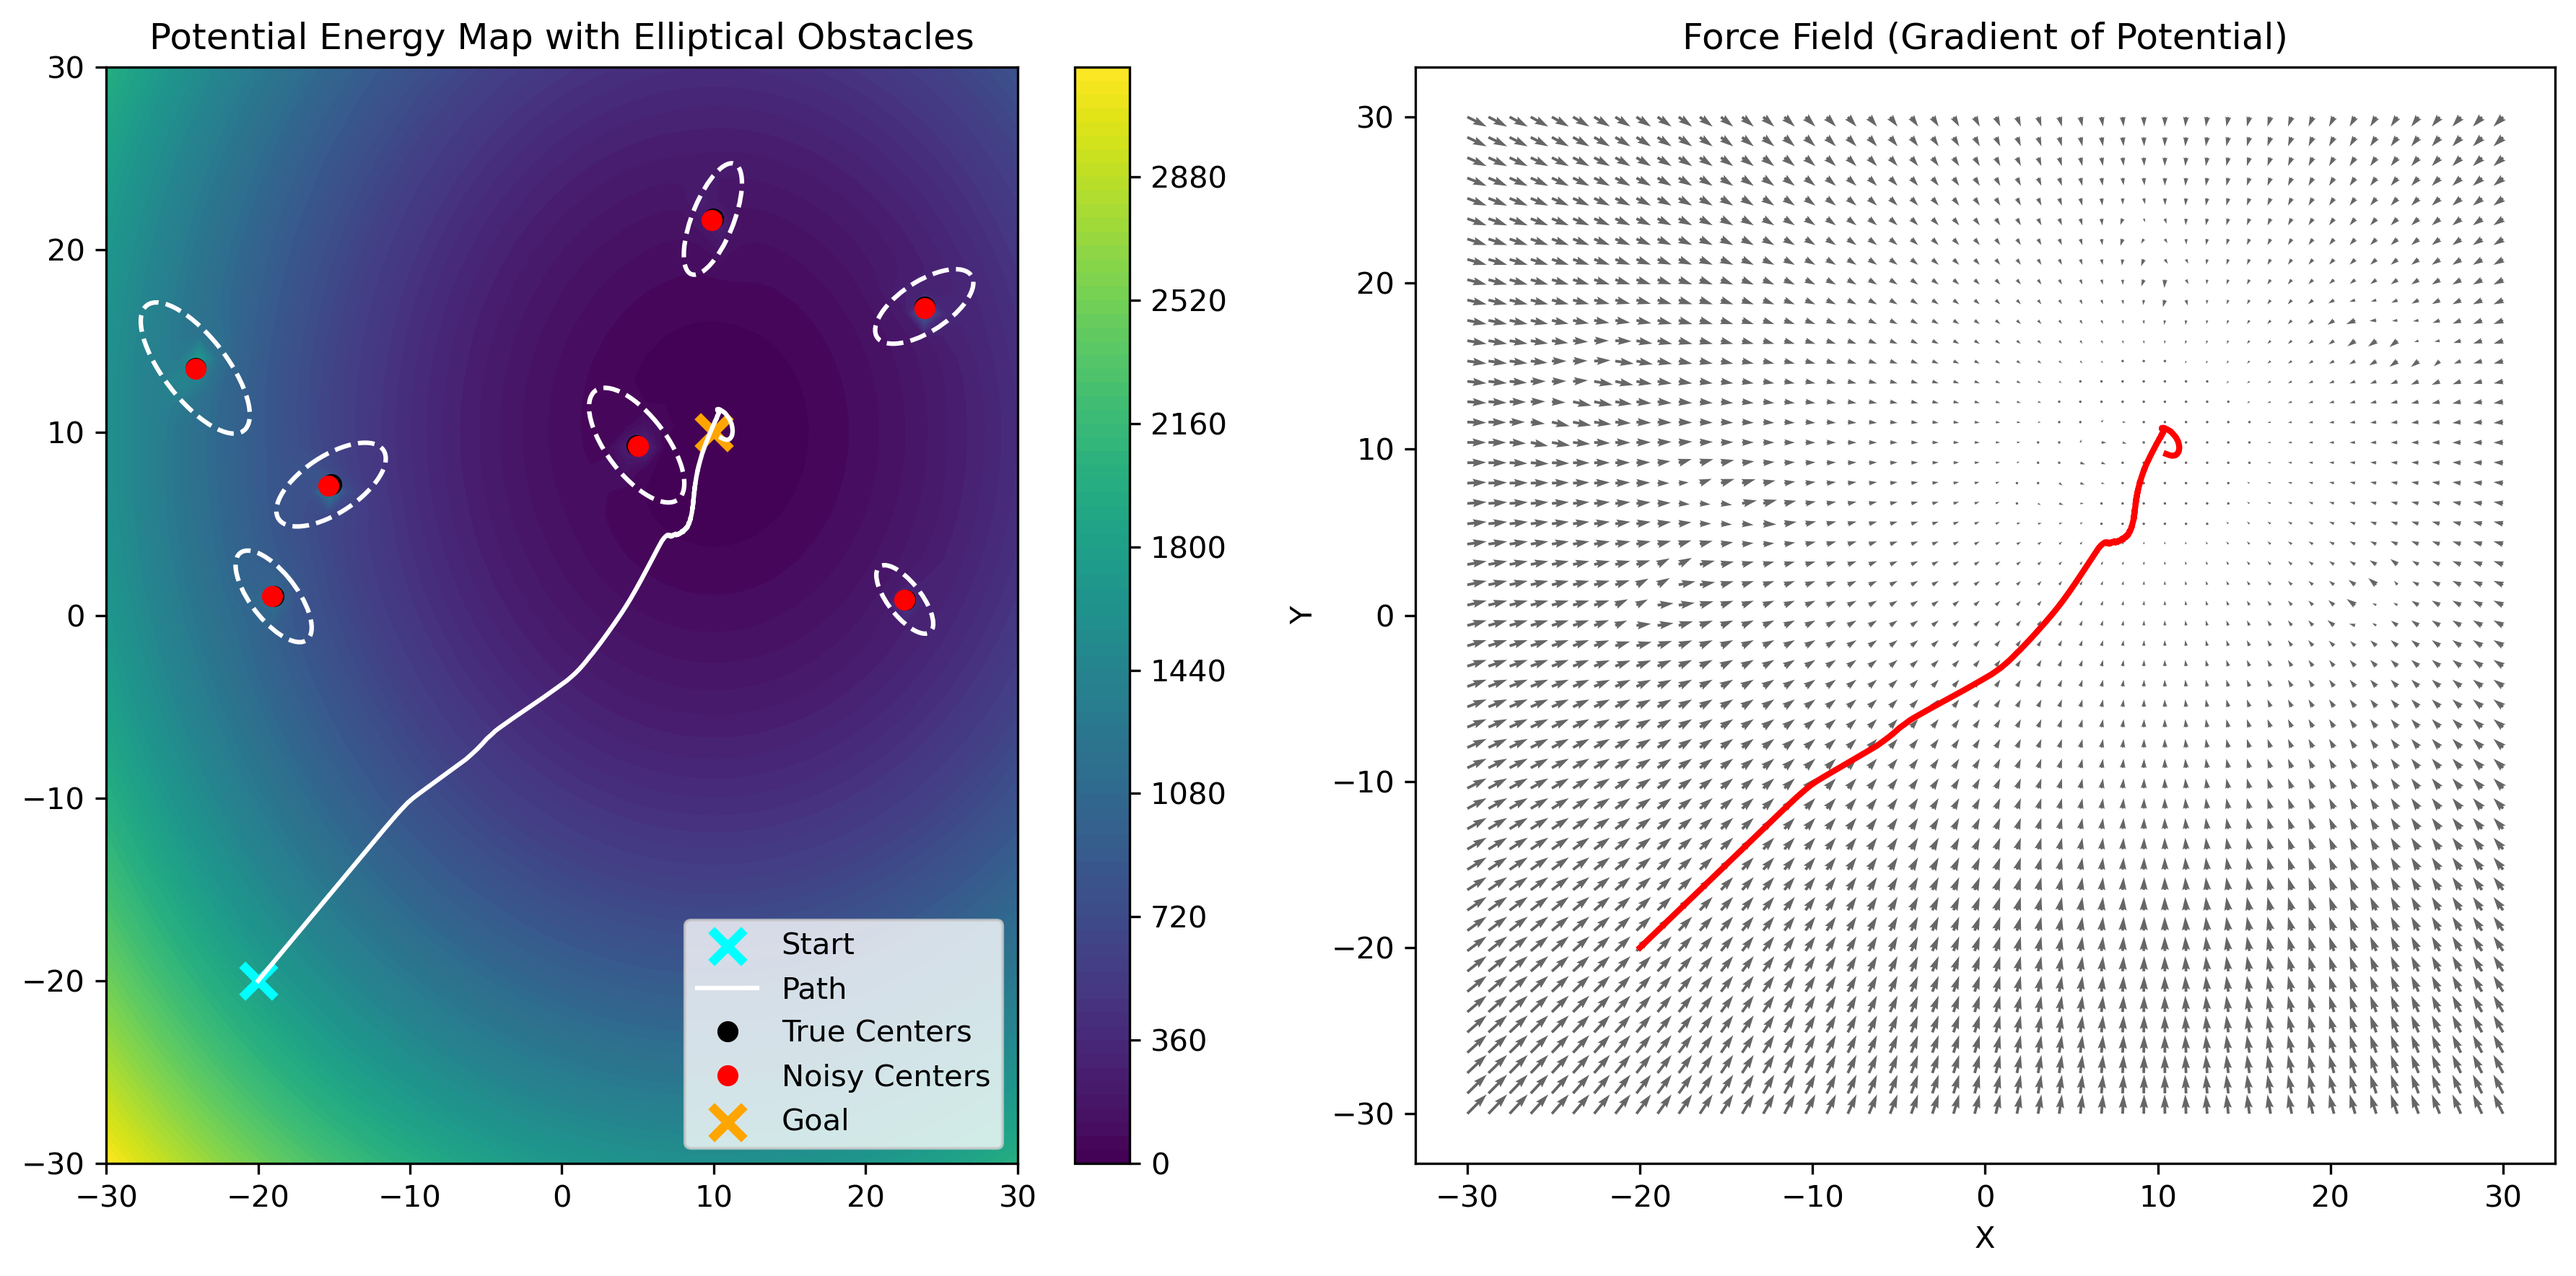
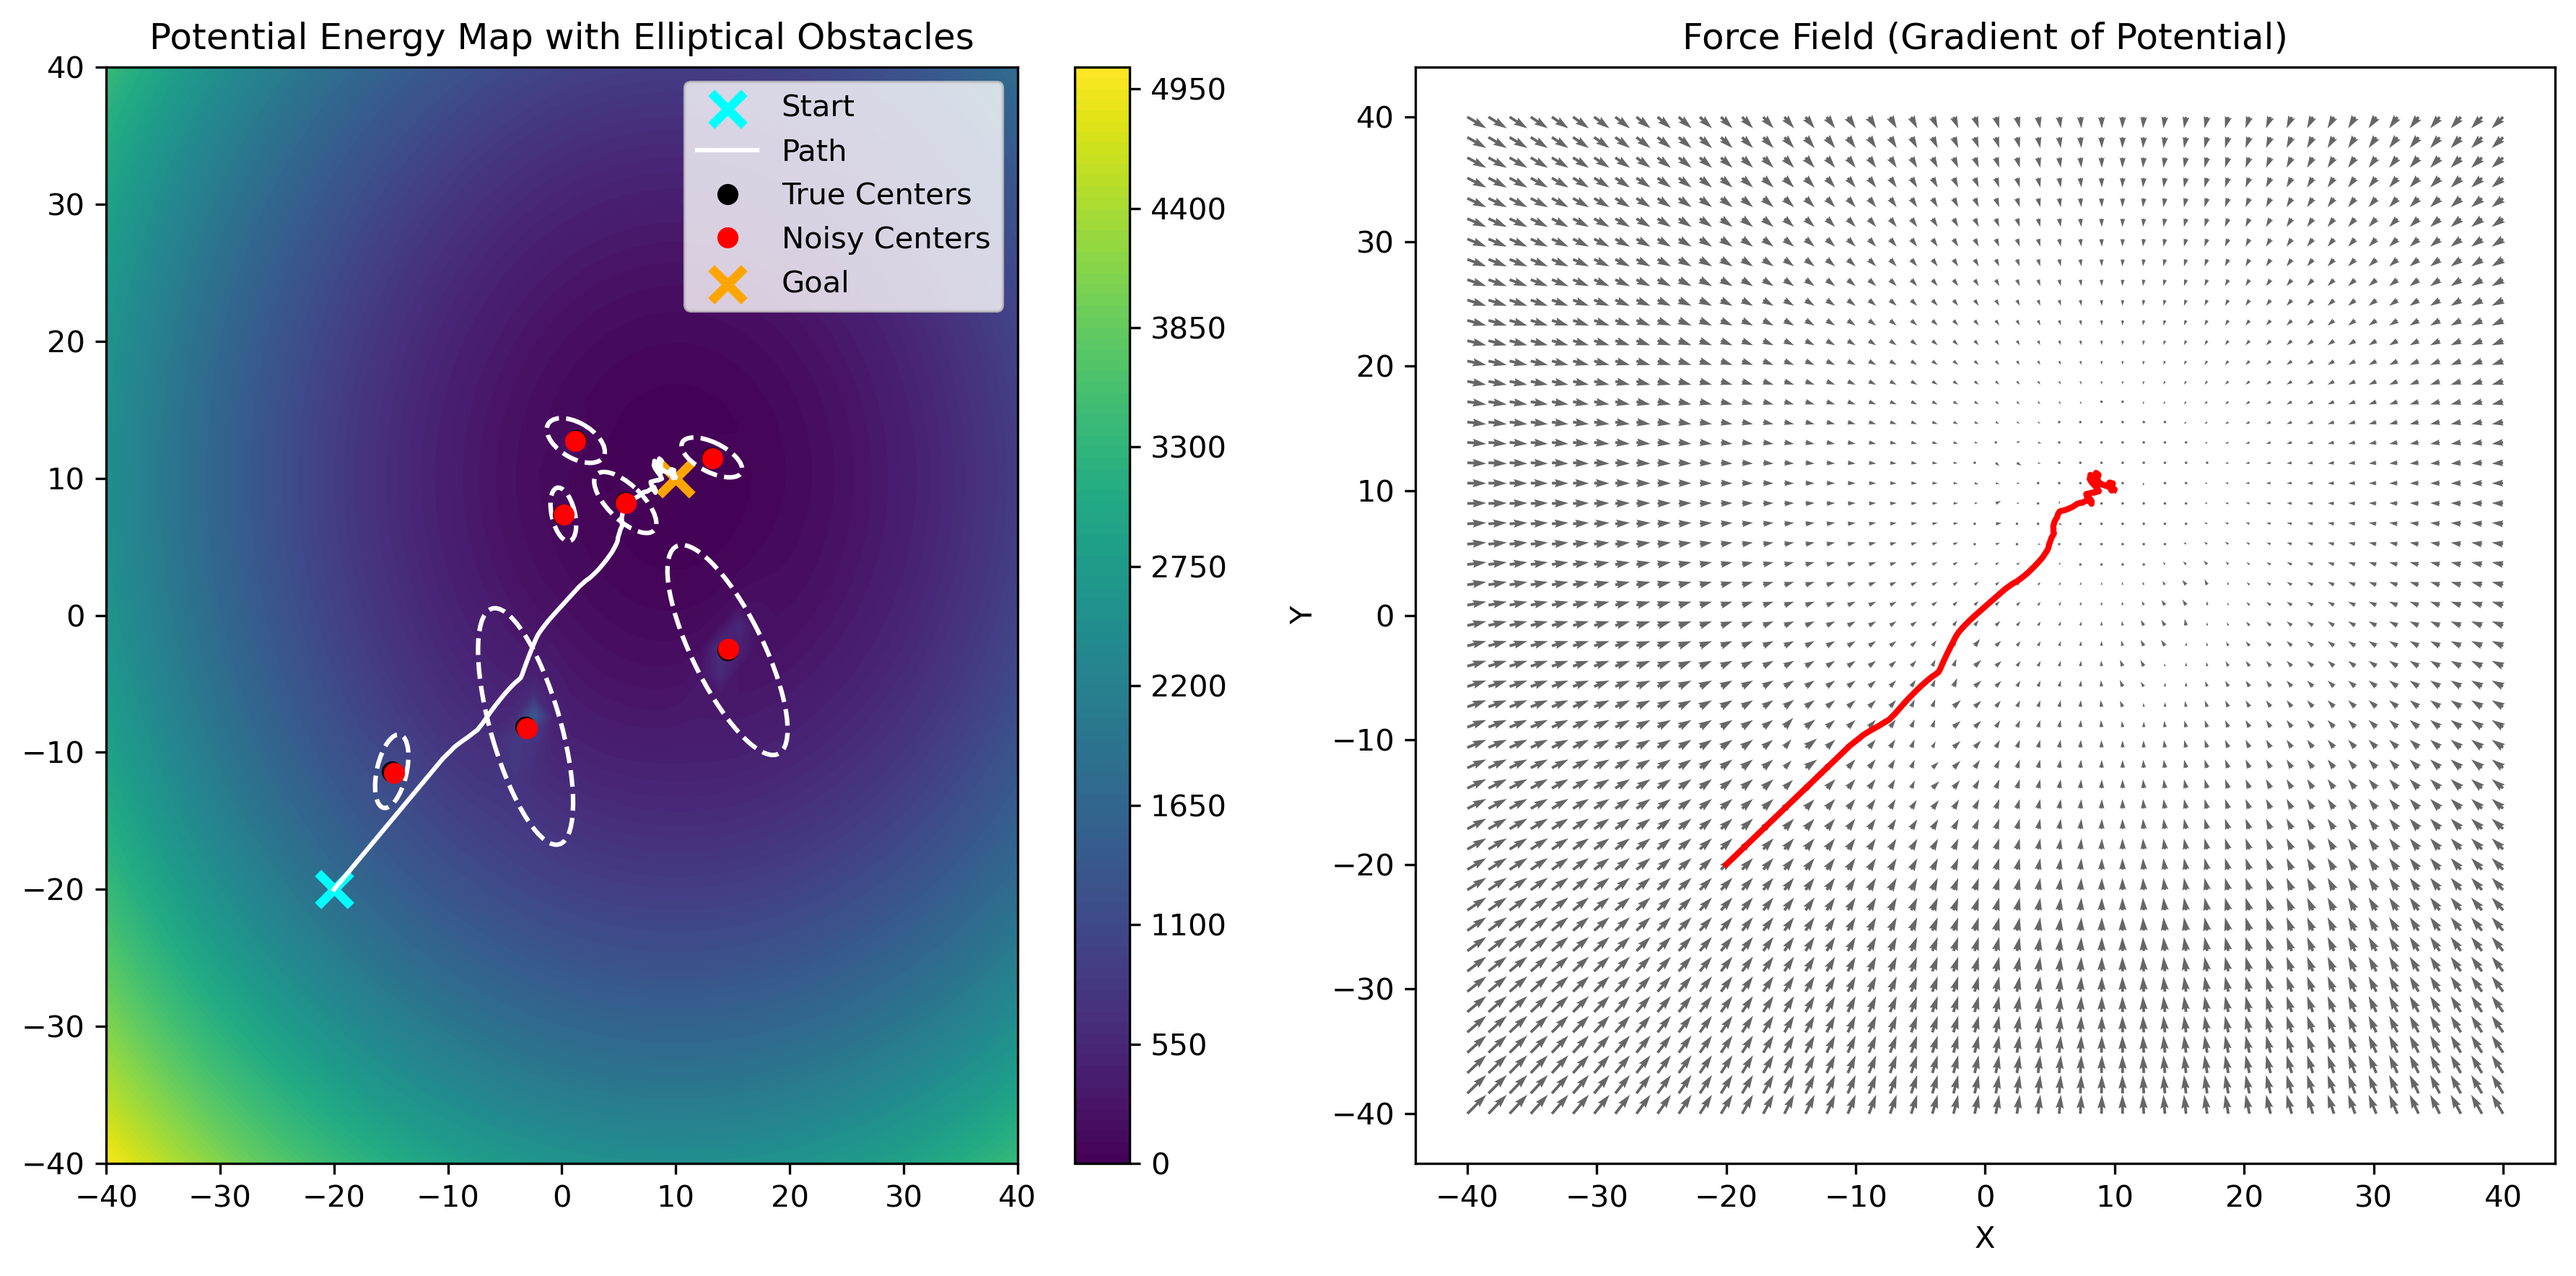
collision check should be added

diff --git a/local_potential_field_demo_dynamic.py b/local_potential_field_demo_dynamic.py
@@ -175,11 +175,10 @@ def apply_stochastic_maneuver(obstacle_speeds, maneuver_prob=0.25,
         vx, vy = new_speeds[i]
         vmag = np.sqrt(vx**2 + vy**2)
         
-        # 1) Small continuous jitter (small speed increase & speed decrease)
-        vx += np.random.normal(0, small_sigma)
-        vy += np.random.normal(0, small_sigma)
+        # 1) Small continuous jitter (small speed increase & decrease, 5%)
+        vmag *= np.random.normal(1, magnitude_sigma)
         
-        # 2) Slight random drift in direction
+        # 2) Slight random drift in direction(2%)
         theta = np.arctan2(vy, vx)
         theta += np.random.normal(0, turn_sigma)
         
@@ -198,8 +197,8 @@ def apply_stochastic_maneuver(obstacle_speeds, maneuver_prob=0.25,
 
     return new_speeds
 
-x_range = np.linspace(-30, 30, 50) #-5 ile 15 arasinda 50 esit parca olustur.
-y_range = np.linspace(-30, 30, 50)
+x_range = np.linspace(-40, 40, 50) #-5 ile 15 arasinda 50 esit parca olustur.
+y_range = np.linspace(-40, 40, 50)
 X, Y = np.meshgrid(x_range, y_range)
 Z = np.zeros_like(X)
 U = np.zeros_like(X)
@@ -209,12 +208,17 @@ V = np.zeros_like(Y)
 max_steps = 2000
 tolerance = 0.1
 
+
 for step in range(max_steps):
+    
+    # 0) random maneuver (new speeds)
+    obstacle_speeds = apply_stochastic_maneuver(obstacle_speeds)
+
     # 1) move the real obstacles
     obstacles_true[:,0] += obstacle_speeds[:,0]*dt
     obstacles_true[:,1] += obstacle_speeds[:,1]*dt
 
-    # 1.1) resolve collisions (prevent overlap)
+    # 1.1) resolve collisions between obstacles (prevent overlap)
     resolve_obstacle_collisions(obstacles_true, obstacle_speeds)
 
     # 2) robot observes obstacles (noisy)
@@ -343,7 +347,6 @@ for i, obs in enumerate(obstacles_true):
 axs[0].set_title("Potential Energy Map with Elliptical Obstacles")
 axs[0].legend()
 plt.colorbar(contour, ax=axs[0])
-
 
 # FORCE FIELD PLOT
 axs[1].quiver(X, Y, U, V, color='black', alpha=0.6)
